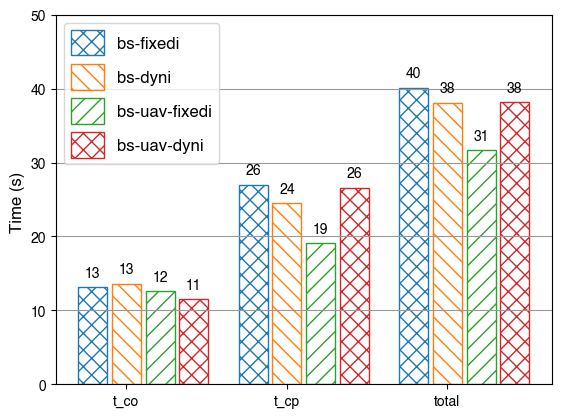
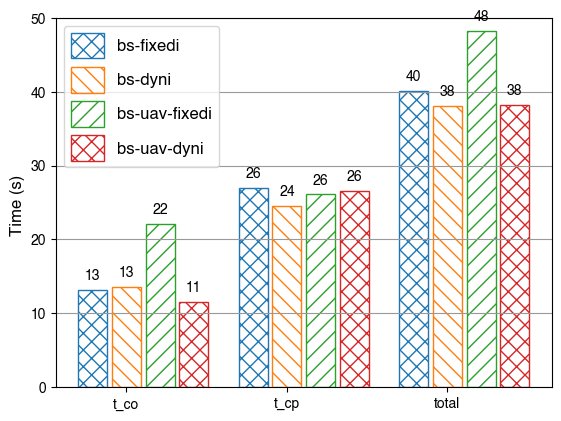
comparison until stop

diff --git a/examples/plot_comparison.py b/examples/plot_comparison.py
@@ -122,22 +122,23 @@ def plot_tien_bar():
     t_co_3, t_cp_3, e_co_3, e_cp_3 = parse_net_tien(prefix_log + 's3/' + log_file)
     t_co_4, t_cp_4, e_co_4, e_cp_4 = parse_net_tien(prefix_log + 's4/' + log_file)
 
+    max_round = min(len(t_co_1), len(t_co_2), len(t_co_3), len(t_co_4))
     max_round_fixedi = min(len(t_co_1), len(t_co_3))
     
-    t_co_1 = t_co_1[:max_round_fixedi].sum()
-    t_cp_1 = t_cp_1[:max_round_fixedi].sum()
-    e_co_1 = e_co_1[:max_round_fixedi].sum()
-    e_cp_1 = e_cp_1[:max_round_fixedi].sum()
+    t_co_1 = t_co_1.sum()
+    t_cp_1 = t_cp_1.sum()
+    e_co_1 = e_co_1.sum()
+    e_cp_1 = e_cp_1.sum()
 
     t_co_2 = t_co_2.sum()
     t_cp_2 = t_cp_2.sum()
     e_co_2 = e_co_2.sum()
     e_cp_2 = e_cp_2.sum()
 
-    t_co_3 = t_co_3[:max_round_fixedi].sum()
-    t_cp_3 = t_cp_3[:max_round_fixedi].sum()
-    e_co_3 = e_co_3[:max_round_fixedi].sum()
-    e_cp_3 = e_cp_3[:max_round_fixedi].sum()
+    t_co_3 = t_co_3.sum()
+    t_cp_3 = t_cp_3.sum()
+    e_co_3 = e_co_3.sum()
+    e_cp_3 = e_cp_3.sum()
 
     t_co_4 = t_co_4.sum()
     t_cp_4 = t_cp_4.sum()
